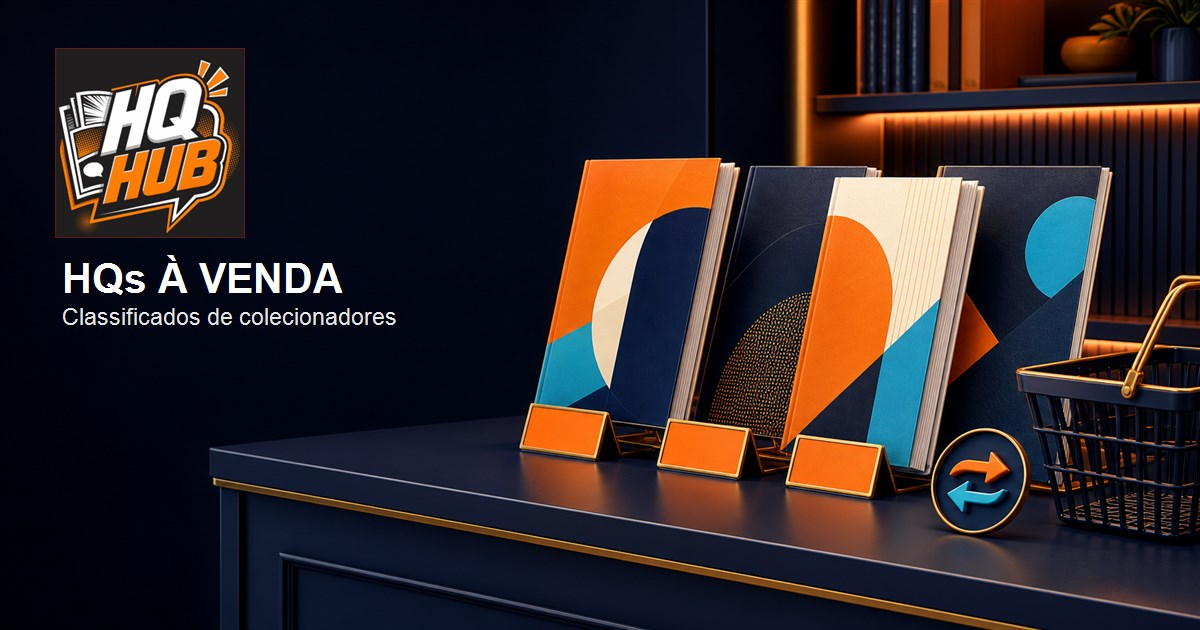
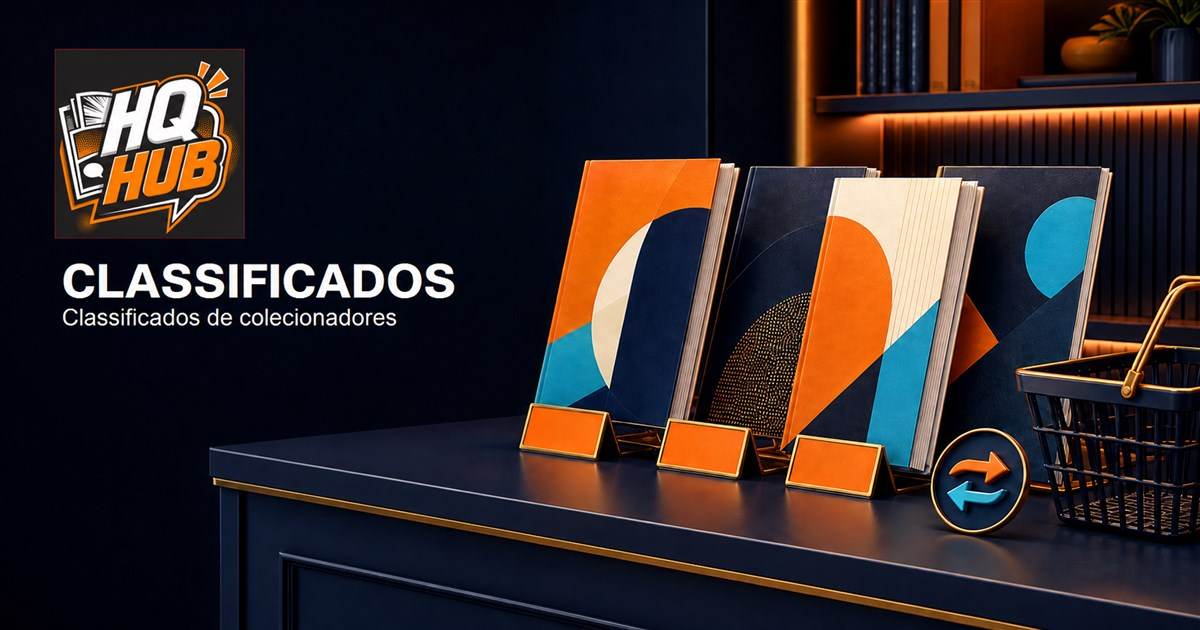
Destacar classificados na imagem compartilhada

diff --git a/frontend/public/classificados-compartilhar.html b/frontend/public/classificados-compartilhar.html
@@ -10,8 +10,8 @@
   <meta property="og:title" content="HQs à venda e para troca">
   <meta property="og:description" content="Veja as edições anunciadas por colecionadores no HQ-HUB.">
   <meta property="og:url" content="https://hqhub-frontend.onrender.com/classificados-compartilhar.html">
-  <meta property="og:image" content="https://hqhub-frontend.onrender.com/assets/classificados-hqs.jpg?v=1">
-  <meta property="og:image:secure_url" content="https://hqhub-frontend.onrender.com/assets/classificados-hqs.jpg?v=1">
+  <meta property="og:image" content="https://hqhub-frontend.onrender.com/assets/classificados-hqs.jpg?v=2">
+  <meta property="og:image:secure_url" content="https://hqhub-frontend.onrender.com/assets/classificados-hqs.jpg?v=2">
   <meta property="og:image:type" content="image/jpeg">
   <meta property="og:image:width" content="1200">
   <meta property="og:image:height" content="630">
@@ -19,7 +19,7 @@
   <meta name="twitter:card" content="summary_large_image">
   <meta name="twitter:title" content="HQs à venda e para troca">
   <meta name="twitter:description" content="Veja as edições anunciadas por colecionadores no HQ-HUB.">
-  <meta name="twitter:image" content="https://hqhub-frontend.onrender.com/assets/classificados-hqs.jpg?v=1">
+  <meta name="twitter:image" content="https://hqhub-frontend.onrender.com/assets/classificados-hqs.jpg?v=2">
   <script>window.location.replace('/classificados');</script>
 </head>
 <body>